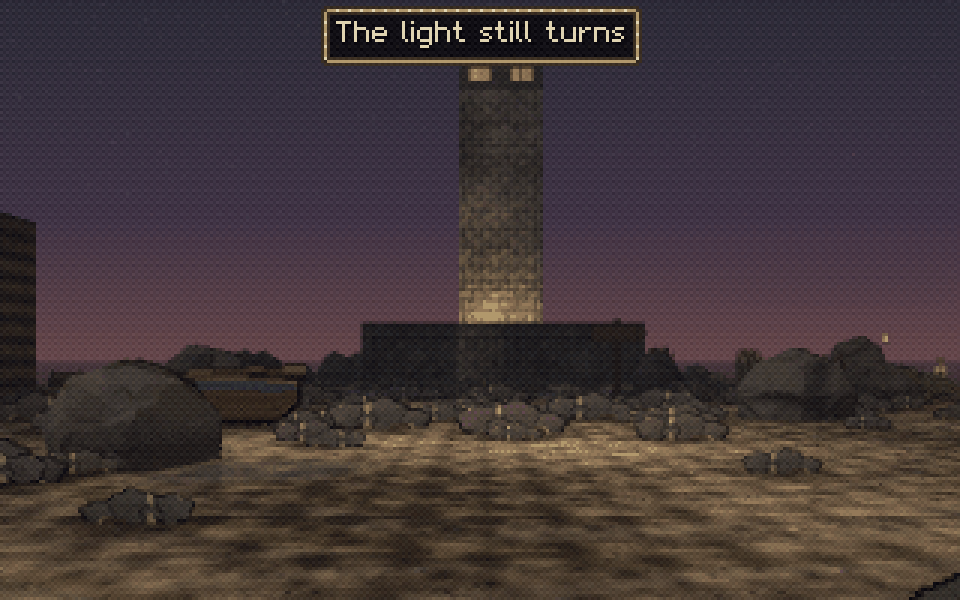
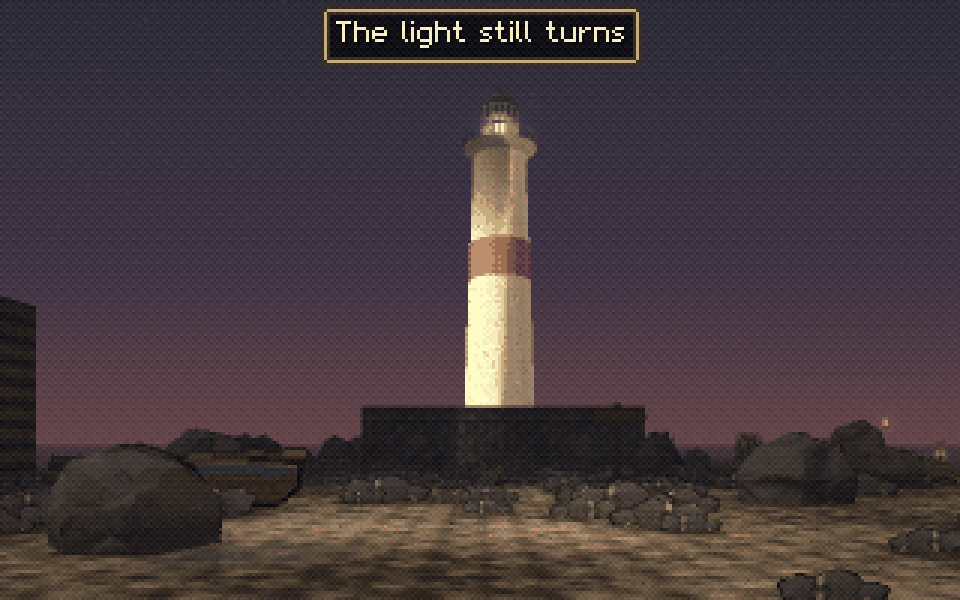
The lighthouse in 3D, its lamp lit at dusk
The coast's lighthouse was a square tower of wall cells nine high. It
is a lighthouse object now: a round tower of whitewashed masonry
tapering up, smoothly shaded, a red band, a gallery on corbels with an
iron rail, a lantern room of glass with the lamp lit in it, a domed
iron cap with a ball. Painted masonry joins the materials: lime_white
and lime_red. The tower shot tilts up a little to take in the lantern,
with a bloom on the lights.

diff --git a/scripts/objects.py b/scripts/objects.py
@@ -36,7 +36,8 @@ PLACEMENT_KEYS = {'type', 'x', 'y', 'z', 'angle', 'scale', 'paint', 'lights', 't
                   'rock', 'length', 'height', 'depth', 'pieces', 'trim', 'size', 'seed', 'plants', 'back', 'lining',
                   'count', 'spread', 'color', 'refract', 'glow', 'base', 'material', 'sides', 'radius', 'top', 'capital',
                   'sink', 'broken', 'width', 'flutes', 'doric', 'fill', 'rise', 'overhang', 'walls', 'inset',
-                  'cover', 'chimney', 'plaster', 'gauge', 'ore', 'roots', 'piece', 'side', 'heel', 'ends', 'sail'}
+                  'cover', 'chimney', 'plaster', 'gauge', 'ore', 'roots', 'piece', 'side', 'heel', 'ends', 'sail',
+                  'band', 'lit'}
 
 
 # ------------------------------------------------------------------ parts
@@ -1228,6 +1229,10 @@ IRONS = {
                        key=(-0.4, 0.45, 0.8), shade=(0.42, 0.5)),
     'iron_green': dict(ramps=[ramp('#3a5a48', dark=0.4, light=1.5), ramp('#7a4a32', dark=0.4, light=1.3)],
                        key=(-0.4, 0.45, 0.8), shade=(0.38, 0.55)),
+    'lime_white': dict(ramps=[ramp('#e6e2d6', dark=0.42, light=1.1), ramp('#a8a08a', dark=0.4, light=1.2)],
+                       key=(-0.4, 0.45, 0.8), shade=(0.4, 0.52), rust=0.8),
+    'lime_red': dict(ramps=[ramp('#a8382c', dark=0.38, light=1.3), ramp('#8a6a5a', dark=0.4, light=1.2)],
+                     key=(-0.4, 0.45, 0.8), shade=(0.38, 0.55), rust=0.84),
 }
 
 
@@ -1977,6 +1982,61 @@ def longship(pl):
     return parts
 
 
+def lighthouse(pl):
+    """A lighthouse: a round tower of whitewashed masonry `height` tall (default 8) and `radius` at its foot
+    (default 0.9), tapering to 0.7 of that, a red `band` round it (`false` for none) - smoothly shaded round
+    - a gallery round its head with an iron rail, a lantern room of glass with the lamp in it (`lit`, by
+    default true: it glows and lights the night round it) and a domed iron cap with a ball on top."""
+    seed = int(pl.get('seed', 1))
+    H, R = float(pl.get('height', 8.0)), float(pl.get('radius', 0.9))
+    white = _material(dict(pl, material='lime_white'))
+    red = _material(dict(pl, material='lime_red'))
+    iron = _material(dict(pl, material='iron_green'))
+    n = 18
+    smooth = -math.tan(math.pi / n)
+    rad = lambda z: R * (1 - 0.3 * z / H)                             # noqa: E731
+    cuts = [0.0, H * 0.58, H * 0.7, H] if pl.get('band', True) else [0.0, H]
+    parts = []
+    for k, (z0, z1) in enumerate(zip(cuts, cuts[1:])):                 # the tower, white and a red band
+        mat = red if (len(cuts) > 2 and k == 1) else white
+        parts += _prism_faces(mat, seed + k, n, rad(z0), rad(z1), z0 - (0.02 if k == 0 else 0.0), z1, 0.0,
+                              flute=smooth, block=True)
+    rg = rad(H) + 0.28                                                 # the gallery: a deck on corbels, a rail
+    parts += _prism_faces(white, seed + 10, n, rad(H) - 0.02, rg, H - 0.24, H, 0.0, flute=smooth, block=True)
+    parts.append(_disc(iron, seed + 11, n, rg, H, 0.0))
+    parts += _prism_faces(iron, seed + 12, n, rg - 0.01, rg - 0.01, H + 0.26, H + 0.32, 0.0, block=True)
+    for k in range(n):                                                 # the rail's posts
+        a = 2 * math.pi * k / n
+        x, y = (rg - 0.02) * math.cos(a), (rg - 0.02) * math.sin(a)
+        parts += box((x - 0.015, y - 0.015, H), (x + 0.015, y + 0.015, H + 0.3),
+                     {f: _solid_cached(2, 18, '#2e4236') for f in ('front', 'back', 'right', 'left')})
+    rl, zl, hl = rad(H) * 0.72, H, 1.0                                 # the lantern room
+    glass = dict(ROOFS['glass'], bars=(rl * 2 * math.sin(math.pi / 10) / 2, 0.34), opacity=0.12)
+    for k in range(10):
+        a0, a1 = 2 * math.pi * k / 10, 2 * math.pi * (k + 1) / 10
+        A = np.array([rl * math.cos(a0), rl * math.sin(a0), zl + hl])
+        B = np.array([rl * math.cos(a1), rl * math.sin(a1), zl + hl])
+        if np.cross(B - A, np.array([0.0, 0.0, -1.0])) @ (A + B) < 0:
+            A, B = B, A
+        p = _rock(glass, seed + 20 + k, A, B, A - np.array([0.0, 0.0, hl]))
+        if p:
+            p['translucent'] = True
+            parts.append(p)
+    parts += _prism_faces(iron, seed + 30, 10, rl, rl * 1.05, zl + hl, zl + hl + 0.08, 0.0, block=True)
+    dome = [(1.05, 0.0), (0.98, 0.18), (0.78, 0.4), (0.45, 0.58), (0.14, 0.66), (0.0, 0.68)]
+    for k, ((r0, z0), (r1, z1)) in enumerate(zip(dome, dome[1:])):     # the dome, and the ball on it
+        parts += _prism_faces(iron, seed + 40 + k, 12, max(rl * r0, 1e-3), max(rl * r1, 1e-3), zl + hl + 0.08 + z0 * rl,
+                              zl + hl + 0.08 + z1 * rl, 0.0, flute=-math.tan(math.pi / 12), block=True)
+    zb = zl + hl + 0.08 + 0.68 * rl
+    parts += _prism_faces(iron, seed + 50, 8, 0.06, 0.06, zb, zb + 0.12, 0.0, block=True)
+    parts.append(_disc(iron, seed + 51, 8, 0.06, zb + 0.12, 0.0))
+    if pl.get('lit', True):                                            # the lamp in the lantern room
+        parts.append(sprite('orb', 0.0, 0.0, zl + 0.05, scale=hl * 0.9, shadow=False))
+        parts.append(light(0.0, 0.0, zl + 0.5, 9.0, (1.0, 0.86, 0.6), 1.6))
+    parts.append(shadow(0.0, 0.0, 2.6 * R, 0.5))
+    return [p for p in parts if p]
+
+
 # ------------------------------------------------------------------ chess pieces
 
 def _polished(rk, seed, o, u, v, w, h, alpha, rim=None, tone=0.0, tilt=None):
@@ -2233,4 +2293,4 @@ OBJECTS = {'noodle_stand': noodle_stand, 'car': car, 'rock_wall': rock_wall, 'bo
            'beam': beam, 'crystal_cluster': crystal_cluster, 'trough': trough, 'shed_roof': shed_roof,
            'gable_roof': gable_roof, 'market_stand': market_stand, 'saloon_bar': saloon_bar, 'rails': rails,
            'ore_cart': ore_cart, 'keel': keel, 'chess_piece': chess_piece, 'ship_hull': ship_hull,
-           'longship': longship}
+           'longship': longship, 'lighthouse': lighthouse}

diff --git a/references/scene_format.md b/references/scene_format.md
@@ -678,7 +678,7 @@ An object is a thing too big to be a billboard - a car, a food stand, rock, crys
 | `refract` | how far a crystal's facets bend the light through them, in units (default 0.16; 0 for plain glass) |
 | `glow` | how much crystals glow (default 0.6) |
 | `base` | a crystal cluster: `false` leaves out its bed of rock. A column: the height of a wider plinth under it |
-| `material` | a column or a beam: a kind of rock (`stone`, `sandstone`, `snow`, `cave`, ... - cut from solid stone as rock is), `ashlar` (pale dressed stone laid in courses - a column in drums), `iron_white` and `iron_green` (painted cast iron, for a glasshouse), `marble` (cream-white, in drums, a golden patina in patches) or `wood` (weathered timber, its grain running along it, dark and grown over where it stands in water) |
+| `material` | a column or a beam: a kind of rock (`stone`, `sandstone`, `snow`, `cave`, ... - cut from solid stone as rock is), `ashlar` (pale dressed stone laid in courses - a column in drums), `iron_white` and `iron_green` (painted cast iron, for a glasshouse), `lime_white` and `lime_red` (whitewashed and red-painted masonry, smoothly round), `marble` (cream-white, in drums, a golden patina in patches) or `wood` (weathered timber, its grain running along it, dark and grown over where it stands in water) |
 | `sides` | a column's faces (default 8, an octagon) |
 | `radius` | a column's radius at its foot, across the corners (default 0.12) |
 | `top` | a column's radius at its head, as a share of its foot's (default 1: no taper) |
@@ -703,12 +703,14 @@ An object is a thing too big to be a billboard - a car, a food stand, rock, crys
 | `side` | a chess piece: `white` (the default) or `black` |
 | `heel` | a ship's hull or a longship: how far it lists toward its starboard side, in degrees |
 | `sail` | a longship: `false` furls its sail (the mast and yard stay) |
+| `band` | a lighthouse: `false` leaves its tower all white |
+| `lit` | a lighthouse: `false` puts its lamp out |
 | `ore` | an ore cart: `false` leaves it empty |
 | `seed` | another arrangement of the same rock |
 | `plants` | a rock wall: `false` leaves its tops bare. A boulder: how many plants grow on top (default 0) |
 | `back` | a rock wall: `true` closes the back of each piece, for rock standing free of a wall |
 
-Built-in objects: `car` (a saloon 1.6 long, 0.6 wide and 0.47 tall - eye height is 0.5: its body a box whose sides are the car's outline, the hood and trunk lid flat across it, the roof, a windscreen, rear and side windows of glass with the seats, dashboard and steering wheel seen through them, four wheels set in under the body in dark wells, a floor pan and a soft shadow under it), `noodle_stand` (a street-food stand 1.4 wide and about 1.2 tall: a counter of lacquered boards under a sloping striped awning on four posts, a scalloped valance, split indigo curtains hanging from its front, a lit sign on the roof, red lanterns with their own light; bowls of noodles, a condiment tray, a stock pot with steam, bowls and bottles on its counter and stools before it, as billboards; it faces its customers. Put a `shopkeeper` behind its counter for a cook), `rock_wall` (rockwork along the foot of a wall: set it on the wall's foot facing into the room, `length` along it. Pieces side by side and overlapping, each in plan a rounded mass of a few broad faces jutting from the wall (now and then a spike or a notch), each piece its own height, with a trim of faces along its top cut by one long smooth wavy edge so no top is level, a flat top on each and plants growing along its rim), `boulder` (a low-poly mass of rock, every face a triangle: an irregular polygon at its foot, bulging a little, drawing in to its shoulders and up to a peak off its centre - solid and closed from every side, so it can be looked down on; the `boulder` prop in `sprites` is a flat billboard of one, fine in the distance), `column` (a column or a post: a prism of `sides` faces, tapering if `top` is under 1, with a plinth and a capital if asked, in stone or wood - pier piles, porch posts, the pillars of a nave; the `column` prop in `sprites` is a billboard of a fluted classical one), `beam` (a squared timber or a stone lintel lying level, its underside at the placement's `z`: a wall plate along a row of piers, a lintel over a door, a fallen timber on the floor), `trough` (a horse trough: an open box of weathered boards 1.6 long, 0.5 wide and 0.45 tall - `length`, `width`, `height` - still water in it a hand below the rim), `shed_roof` (a roof of boards sloping down to its front edge at the placement's `z`, `length` along it and reaching `depth` out the way it faces, its back edge `rise` higher - over a porch, a lean-to, an awning), `gable_roof` (a gabled roof of boards - or `thatch` or `tile` - its ridge `length` long the way it faces and `rise` over the eaves at `z`, `width` across, gable ends of upright boards, and with `walls` the walls under it: a shed, a barn, a cottage, the body of a building), `longship` (a longship: a long open hull of boards, its stem and stern curling up high, a mast with a yard and a square sail in red and cream stripes - `"sail": false` furls it - and round shields along both sides at the gunwale; `length` long the way it faces, default 7; `heel` lists it), `ship_hull` (a wooden ship's hull, open: `length` long the way it faces (the bow), `width` across, `depth` from keel to gunwale - a square stern, the sides curving out from the keel and in to a pointed bow whose stem sweeps up, planked along its length, ribs inside; `heel` lists it toward its starboard side in degrees, `broken` (0-1) staves in that much of that side; sink it into a sea floor with a negative `z`), `chess_piece` (a chess piece in 3D, turned in polished marble: `piece` a `pawn`, `rook`, `bishop`, `knight`, `queen` or `king`, `side` `white` or `black`, `height` tall (default 1) - smoothly shaded round, a sheen where it faces the light, veins in the stone; the rook's battlements, the queen's coronet and ball, the king's crown and cross, the knight's head carved side on and cut thick, facing the way the piece faces), `keel` (the rock under a floating island: an irregular ring `size` across at its top - set `z` at the foot of the island's `cliff` - drawing in by uneven steps to a ragged point `depth` below, crags hanging from its flanks, every face a triangle of rock lit from above, so its underside is in shade; `rock` defaults to `island`, grey and brown in beds; `"roots": false` leaves out the roots trailing from it), `rails` (a narrow track: two iron rails `length` long the way it faces, `gauge` apart (default 0.24), on wooden sleepers, their tops worn bright), `ore_cart` (a riveted iron tub on four small wheels set to the rails, its length the way it faces, ore heaped in it - `"ore": false` for none), `saloon_bar` (a saloon's counter of dark mahogany `length` long (default 3), 0.38 tall: raised panels between pilasters, a polished top, the bartender's shelves behind, a brass foot rail on brackets, bottles on it; it faces the drinkers), `market_stand` (a trestle table of boards 1.5 long with a striped skirt, under a striped awning on four poles sloping down to the front, a scalloped valance round it; apples, cabbages and loaves heaped on the table and crates by it, as billboards; it faces its customers), `crystal_cluster` (hexagonal crystals with pointed tips growing from a bed of rock, the tallest near upright and the rest leaning out; each carries a light of its colour. Every facet is its own panel with its own clarity - clear across the middle, milky toward the base, bright along the edges - and bends the light through it its own way: it shows one coherent piece of what is behind it, shifted by the way the facet is turned, its neighbours other pieces, the colours parting a little at the edges - so a crystal reads as cut stone from any side, and a crystal behind it shows through it bent).
+Built-in objects: `car` (a saloon 1.6 long, 0.6 wide and 0.47 tall - eye height is 0.5: its body a box whose sides are the car's outline, the hood and trunk lid flat across it, the roof, a windscreen, rear and side windows of glass with the seats, dashboard and steering wheel seen through them, four wheels set in under the body in dark wells, a floor pan and a soft shadow under it), `noodle_stand` (a street-food stand 1.4 wide and about 1.2 tall: a counter of lacquered boards under a sloping striped awning on four posts, a scalloped valance, split indigo curtains hanging from its front, a lit sign on the roof, red lanterns with their own light; bowls of noodles, a condiment tray, a stock pot with steam, bowls and bottles on its counter and stools before it, as billboards; it faces its customers. Put a `shopkeeper` behind its counter for a cook), `rock_wall` (rockwork along the foot of a wall: set it on the wall's foot facing into the room, `length` along it. Pieces side by side and overlapping, each in plan a rounded mass of a few broad faces jutting from the wall (now and then a spike or a notch), each piece its own height, with a trim of faces along its top cut by one long smooth wavy edge so no top is level, a flat top on each and plants growing along its rim), `boulder` (a low-poly mass of rock, every face a triangle: an irregular polygon at its foot, bulging a little, drawing in to its shoulders and up to a peak off its centre - solid and closed from every side, so it can be looked down on; the `boulder` prop in `sprites` is a flat billboard of one, fine in the distance), `column` (a column or a post: a prism of `sides` faces, tapering if `top` is under 1, with a plinth and a capital if asked, in stone or wood - pier piles, porch posts, the pillars of a nave; the `column` prop in `sprites` is a billboard of a fluted classical one), `beam` (a squared timber or a stone lintel lying level, its underside at the placement's `z`: a wall plate along a row of piers, a lintel over a door, a fallen timber on the floor), `trough` (a horse trough: an open box of weathered boards 1.6 long, 0.5 wide and 0.45 tall - `length`, `width`, `height` - still water in it a hand below the rim), `shed_roof` (a roof of boards sloping down to its front edge at the placement's `z`, `length` along it and reaching `depth` out the way it faces, its back edge `rise` higher - over a porch, a lean-to, an awning), `gable_roof` (a gabled roof of boards - or `thatch` or `tile` - its ridge `length` long the way it faces and `rise` over the eaves at `z`, `width` across, gable ends of upright boards, and with `walls` the walls under it: a shed, a barn, a cottage, the body of a building), `lighthouse` (a round tower of whitewashed masonry `height` tall (default 8), `radius` at its foot (default 0.9), tapering to 0.7 of that, a red `band` round it (`false` for none), a gallery with an iron rail round its head, a lantern room of glass with the lamp lit in it - `"lit": false` puts it out - and a domed iron cap), `longship` (a longship: a long open hull of boards, its stem and stern curling up high, a mast with a yard and a square sail in red and cream stripes - `"sail": false` furls it - and round shields along both sides at the gunwale; `length` long the way it faces, default 7; `heel` lists it), `ship_hull` (a wooden ship's hull, open: `length` long the way it faces (the bow), `width` across, `depth` from keel to gunwale - a square stern, the sides curving out from the keel and in to a pointed bow whose stem sweeps up, planked along its length, ribs inside; `heel` lists it toward its starboard side in degrees, `broken` (0-1) staves in that much of that side; sink it into a sea floor with a negative `z`), `chess_piece` (a chess piece in 3D, turned in polished marble: `piece` a `pawn`, `rook`, `bishop`, `knight`, `queen` or `king`, `side` `white` or `black`, `height` tall (default 1) - smoothly shaded round, a sheen where it faces the light, veins in the stone; the rook's battlements, the queen's coronet and ball, the king's crown and cross, the knight's head carved side on and cut thick, facing the way the piece faces), `keel` (the rock under a floating island: an irregular ring `size` across at its top - set `z` at the foot of the island's `cliff` - drawing in by uneven steps to a ragged point `depth` below, crags hanging from its flanks, every face a triangle of rock lit from above, so its underside is in shade; `rock` defaults to `island`, grey and brown in beds; `"roots": false` leaves out the roots trailing from it), `rails` (a narrow track: two iron rails `length` long the way it faces, `gauge` apart (default 0.24), on wooden sleepers, their tops worn bright), `ore_cart` (a riveted iron tub on four small wheels set to the rails, its length the way it faces, ore heaped in it - `"ore": false` for none), `saloon_bar` (a saloon's counter of dark mahogany `length` long (default 3), 0.38 tall: raised panels between pilasters, a polished top, the bartender's shelves behind, a brass foot rail on brackets, bottles on it; it faces the drinkers), `market_stand` (a trestle table of boards 1.5 long with a striped skirt, under a striped awning on four poles sloping down to the front, a scalloped valance round it; apples, cabbages and loaves heaped on the table and crates by it, as billboards; it faces its customers), `crystal_cluster` (hexagonal crystals with pointed tips growing from a bed of rock, the tallest near upright and the rest leaning out; each carries a light of its colour. Every facet is its own panel with its own clarity - clear across the middle, milky toward the base, bright along the edges - and bends the light through it its own way: it shows one coherent piece of what is behind it, shifted by the way the facet is turned, its neighbours other pieces, the colours parting a little at the edges - so a crystal reads as cut stone from any side, and a crystal behind it shows through it bent).
 
 - Shoot an object at an angle: its depth is the point of it. Objects light, occlude and mirror in wet floors like everything else; their billboards get contact shadows and their lights join the scene's. They do not cast shadows from the scene's lights.
 - They render fast - a car is about seventy panels, each touching only its own patch of the screen.

diff --git a/docs/ASSETS.md b/docs/ASSETS.md
@@ -32,7 +32,7 @@ The smoke test fails while this file is out of date. Sheets show textures tiled 
 | Fringe sets | 7 | 7 | 0 | 0 | 0 |
 | Facade styles | 6 | 6 | 0 | 0 | 0 |
 | Prefabs | 13 | 13 | 0 | 0 | 0 |
-| Objects | 18 | 18 | 0 | 0 | 0 |
+| Objects | 19 | 19 | 0 | 0 | 0 |
 | Held items | 8 | 8 | 0 | 0 | 0 |
 | Icons | 26 | 26 | 0 | 0 | 0 |
 | GUI themes | 6 | 6 | 0 | 0 | 0 |
@@ -40,7 +40,7 @@ The smoke test fails while this file is out of date. Sheets show textures tiled 
 | Post presets | 20 | 20 | 0 | 0 | 0 |
 | Palettes | 9 | 9 | 0 | 0 | 0 |
 | Example scenes | 65 | 65 | 0 | 0 | 0 |
-| **all** | **802** | **802** | **0** | **0** | **0** |
+| **all** | **803** | **803** | **0** | **0** | **0** |
 <!-- /summary -->
 
 ## Pass plan
@@ -82,7 +82,7 @@ New scenes:
 | `brick_yellow` | good |  | - |  |
 | `stone` | good |  | claude_study, garden_encounter, gui_menus, hospital_garden, post_presets | Even block sizes; a few varied heights would help on long walls. |
 | `stone_dark` | good |  | cathedral_ruin, garden_encounter, gui_menus, gui_themes, gui_trade, haunted_house, hospital_garden, library_medium, mansion_library, post_presets, rainy_street |  |
-| `stone_pale` | good |  | cathedral_ruin, chapel_graveyard, coast_lighthouse, dream_world, garden_encounter, gui_menus, hospital_garden, post_presets |  |
+| `stone_pale` | good |  | cathedral_ruin, chapel_graveyard, dream_world, garden_encounter, gui_menus, hospital_garden, post_presets |  |
 | `castle` | good |  | castle_keep | Mortar grid is very regular; chip a few corners. |
 | `moss_stone` | good |  | autumn_lane, coast_lighthouse, misty_moor |  |
 | `menhir` | good |  | misty_moor | Drawn with the toolkit in basics.py: one weathered stone face - broad swells, rain runnels, long cracks, lichen rosettes - moss at its foot. |
@@ -249,7 +249,7 @@ New scenes:
 
 | texture | status | traits | used in | notes |
 |---|---|---|---|---|
-| `window_lit` | good | glows | coast_lighthouse, garden_encounter, gui_menus, haunted_house, hospital_garden, neon_rooftop, post_presets, rainy_street | Simple; a silhouette in one pane now and then would add life. |
+| `window_lit` | good | glows | garden_encounter, gui_menus, haunted_house, hospital_garden, neon_rooftop, post_presets, rainy_street | Simple; a silhouette in one pane now and then would add life. |
 | `window_dark` | good |  | garden_encounter, gui_menus, gui_themes, gui_trade, haunted_house, hospital_garden, library_medium, mansion_library, neon_rooftop, post_presets, rainy_street |  |
 | `window_lit_plaster` | good | glows | bayou, garden_encounter, gui_menus, hospital_garden, post_presets, rainy_street, winter_lake |  |
 | `window_dark_plaster` | good |  | garden_encounter, ghost_corridor, gui_hud, gui_menus, hospital_corridor, hospital_garden, post_presets, rainy_street |  |
@@ -583,7 +583,7 @@ Camera-facing sprites. "tall" is the default height in world units (a wall is 1)
 | `door_frame` | good | 1.1 tall | dream_chess, dream_world, hall_of_doors, salt_flat |  |
 | `floating_rock` | good | 1.6 tall, no shadow | dream_world, sky_islands |  |
 | `koi` | good | 0.35 tall, no shadow | dream_chess, dream_world, drowned_library, hall_of_doors |  |
-| `orb` | good | 0.2 tall, glows, aura, no shadow | dream_world |  |
+| `orb` | good | 0.2 tall, glows, aura, no shadow | coast_lighthouse, dream_world |  |
 | `pocket_watch` | good | 0.8 tall, no shadow | dream_world |  |
 | `sky_whale` | good | 2 tall, glows, no shadow | dream_world, drowned_library, salt_flat |  |
 
@@ -906,7 +906,7 @@ Named groups placed with one line (`scripts/prefabs.py`).
 | `graves` | good | 5 sprites | - |  |
 | `shrine` | good | 2 sprites, 1 lights | jungle_temple |  |
 
-## Objects (18)
+## Objects (19)
 
 Things too big for a billboard, built in 3D out of flat panels (`scripts/objects.py`).
 
@@ -935,6 +935,7 @@ Things too big for a billboard, built in 3D out of flat panels (`scripts/objects
 | `chess_piece` | good | dream_chess, dream_world | A chess piece in 3D, turned (`_lathe`: each pair of profile points a frustum of 16 faces, smoothly shaded round with a convex `tilt`) in polished marble (`_polished`: lit by the way each texel faces, a sheen toward the light, veins), white or black; the rook's battlements, the queen's coronet and ball, the king's crown and cross; the knight's head carved side on from a slab, its eyes nicked in. Replaces the billboards in dream_chess. |
 | `ship_hull` | good | kelp_forest | A wooden ship's hull in 3D, open: a square stern, the sides curving out from the keel and in to a pointed bow whose stem sweeps up, the gunwale rising toward both ends; planked along its length (`_timber` boards), ribs inside; `heel` lists it, `broken` staves in its starboard side. The kelp forest's wreck. |
 | `longship` | good | fjord | A longship: the `ship_hull`'s planked hull, stem and stern posts curling up and over, a six-sided mast, a yard and a square sail in red and cream stripes (bellied lighter in the middle; `"sail": false` furls it), round shields at the gunwale down both sides. |
+| `lighthouse` | good | coast_lighthouse | A round tower of whitewashed masonry tapering up, smoothly shaded (`lime_white`, `_painted`), a red band (`lime_red`), a gallery on corbels with an iron rail of posts, a lantern room of ten glass panes (the `glass` cover's painter, translucent) with the lamp lit in it (an `orb` and a light), a domed iron cap with a ball. |
 
 ## Held items (8)
 
@@ -1082,7 +1083,7 @@ The environments, judged on their gallery images and shots.
 | `bayou` | good | 4 | bayou_dusk, bayou_night, bayou_gator, bayou_heron | A shack on an island in black water between mossy cypresses: sundown, fireflies at night, an alligator, a heron in mist. |
 | `kelp_forest` | good | 4 | sea_kelp, sea_diver, sea_shoal, sea_night | A kelp forest in teal water: a wreck with its mast, a diver with bubbles rising, a shoal; a night dive by flashlight with jellyfish. The wreck is a `ship_hull` in 3D now, listing toward the cameras with its side stove in and the ribs showing, and the rock outcrops are `boulder`s of live `reef` rock. |
 | `aquarium` | good | 8 | aquarium_hall, aquarium_manta, aquarium_tunnel, aquarium_jellies, aquarium_reef, aquarium_moon, aquarium_diver, aquarium_rockwork | A dark hall before the great window (whale shark, manta, a diver cleaning the glass, silhouettes, the floor mirroring it); the manta from below; the tunnel; sea nettles against blue; the reef tank; inside the ocean tank by a boulder. The big tanks' backs are rockwork against open water. |
-| `coast_lighthouse` | good | 4 | coast_tower, coast_jetty | The shore rocks are the redrawn boulders now, not grey lumps; sand and water redrawn too. |
+| `coast_lighthouse` | good | 4 | coast_tower, coast_jetty | The shore rocks are the redrawn boulders now, not grey lumps; sand and water redrawn too. The lighthouse itself is 3D now (a `lighthouse` object), its lamp lit at dusk. |
 | `rainy_street` | good | 4 | street_rain, street_lightning |  |
 | `rain_alley` | good | 5 | alley_street, alley_rain, alley_glass, alley_storm, alley_cars |  |
 | `neon_street` | good | 5 | neon_street, neon_stall, neon_signs, neon_runner, neon_counter | The neon facade style in the rain: signs, blade signs, lantern wires, a hologram koi, a noodle stall, vending machines, steam, the runner; bloom on the neon. |
@@ -1165,6 +1166,7 @@ The environments, judged on their gallery images and shots.
 ## Pass log
 
 - **2026-10-19, pass 0.** First full review of every asset, on review sheets and in the gallery. This file and `docs/asset_review.py` were added.
+- **2026-10-21, the lighthouse.** The coast's lighthouse was a square tower of wall cells nine high. It is a `lighthouse` object now (new): a round whitewashed tower tapering up, a red band, a gallery with its rail, a lantern room of glass with the lamp lit in it, a domed cap; painted masonry `lime_white` and `lime_red`. The tower shot tilts up a little (`pitch` 0.24) to take in the lantern, with a bloom on the lights.
 - **2026-10-21, the palm house.** A new scene: a Victorian glasshouse. Its roof is a `gable_roof` with the new `glass` cover and `glass` ends - painted as panes between white glazing bars with each texel's own opacity and drawn as glass (`translucent`), so the sky shows through, and no cell is roofed, so the sun comes in; painted cast iron for columns and beams (`iron_white`, `iron_green`; `_painted`); a new kit, glasshouse.py, with the `glasshouse` wall and `encaustic` tiles. Palms scaled to 4-5 so their crowns fill the glass. The shot from the garden was dropped: walls of open panes read as a cage from outside.
 - **2026-10-21, the fjord.** A new scene, the north: a `longship` object (new - the hull with its stem and stern curling up, a mast, a yard and a striped square sail, round shields along both sides), `round_shield` (new, norse.py), cliffs lined with tall ragged `stone` rock walls, a longhouse under a thatch `gable_roof`. First drawn, the cliffs' trim was low and they read as castle walls (`trim` 0.14 now, for a ragged rim), the dusk shot looked at nothing and the third sat inside the ship - now dusk is the fire lighting the shields and the third looks back from the water. Pines on the cliff tops were tried and dropped: the rock walls stand taller than the cells they line, so they hid them.
 - **2026-10-21, the woods' edges.** The woodland, the autumn lane and the winter woods take the jungle's natural edge: their fringes `wander` (0.3, 1.2 deep), so the forest's flat wall faces stop showing between the layers at its corners - most in the winter woods, where the lane's straight green walls are now trees. The other shots change little.

diff --git a/SKILL.md b/SKILL.md
@@ -77,7 +77,7 @@ Stack effects or use presets in `"post"`: crt, crt_amber, crt_green, vhs, gamebo
 - **Interiors**: wall height = `ceiling_height`; lights near walls give textures gradients; break long corridors with doorways and spilled light.
 - **Composition**: one-point perspective down a corridor or path is the classic; 20-40 degrees off-axis adds variety; a close character on one side with the scene behind makes strong encounter shots.
 - **Prefabs place a group with one line**: `{"type": "campsite", "x": 12.5, "y": 20.5}` puts down a fire, logs, stones and its light; `beach_hut` brings its own walls, door, window, roof, torches and lights; `palm_grove`, `jungle_clump`, `fern_bed`, `ruined_columns`, `altar_fire`, `graves`, `street_lamp`, `tiki_torches`, `shrine`, `palm_3d`, `jungle_bush`. `angle` turns one, `seed` varies it. Define your own in `prefab_defs` when a scene repeats a group.
-- **Objects are big things built in 3D**: `{"type": "car", "x": 20.4, "y": 45.6, "angle": 270, "paint": "#9a9ea4"}` parks a saloon (`"lights": true` turns its headlamps on); `noodle_stand` is a street-food stand with its awning, curtains, sign, lanterns and bowls on the counter. Unlike a billboard they show the right sides from any angle - so shoot them at an angle - and a figure can stand in front of them or behind. A car is 1.6 long and 0.47 tall. Rock is an object too: a `rock_wall` lines the foot of a wall with overlapping rounded pieces of different heights, their tops cut along a wavy edge, plants on them - better than a flat rock texture wherever a cliff, a cave wall or a tank's rockwork is in view - and a `boulder` object is a solid low-poly rock (the `boulder` prop is a billboard of one); `"rock"` picks `stone`, `reef`, `sandstone`, `snow`, `cave` or `lumen` (glowing moss), and `"lining": "#"` lines every wall face of those map cells with rock. A `column` is a post or a pillar in 3D - wooden piles under a pier, stone pillars in a nave (`"material": "ashlar"` lays it in drums; `broken` snaps it off; `"flutes": 20, "doric": true` in `marble` makes a Greek one) - and a `beam` lies level across them. Timber work: a `trough`, a `shed_roof` (over a porch or a lean-to) and a `gable_roof` (with `walls`, a shed or a barn; `"cover": "thatch"` or `"tile"` and a `chimney` for a cottage); a `market_stand` for a market; a `saloon_bar` for a saloon; `rails` and an `ore_cart` for a mine; a `keel` of rock under a floating island; a `chess_piece` (`piece`, `side`) for a giant game; a `ship_hull` (`heel`, `broken`) for a wreck; a `longship` (`sail`) for the north; a `gable_roof` of `"cover": "glass"` over a glasshouse. An object backlit by a low sun takes `"fill": 1.0`. A `crystal_cluster` grows crystals whose every facet bends the light through it its own way, like cut stone - put glowing things behind them.
+- **Objects are big things built in 3D**: `{"type": "car", "x": 20.4, "y": 45.6, "angle": 270, "paint": "#9a9ea4"}` parks a saloon (`"lights": true` turns its headlamps on); `noodle_stand` is a street-food stand with its awning, curtains, sign, lanterns and bowls on the counter. Unlike a billboard they show the right sides from any angle - so shoot them at an angle - and a figure can stand in front of them or behind. A car is 1.6 long and 0.47 tall. Rock is an object too: a `rock_wall` lines the foot of a wall with overlapping rounded pieces of different heights, their tops cut along a wavy edge, plants on them - better than a flat rock texture wherever a cliff, a cave wall or a tank's rockwork is in view - and a `boulder` object is a solid low-poly rock (the `boulder` prop is a billboard of one); `"rock"` picks `stone`, `reef`, `sandstone`, `snow`, `cave` or `lumen` (glowing moss), and `"lining": "#"` lines every wall face of those map cells with rock. A `column` is a post or a pillar in 3D - wooden piles under a pier, stone pillars in a nave (`"material": "ashlar"` lays it in drums; `broken` snaps it off; `"flutes": 20, "doric": true` in `marble` makes a Greek one) - and a `beam` lies level across them. Timber work: a `trough`, a `shed_roof` (over a porch or a lean-to) and a `gable_roof` (with `walls`, a shed or a barn; `"cover": "thatch"` or `"tile"` and a `chimney` for a cottage); a `market_stand` for a market; a `saloon_bar` for a saloon; `rails` and an `ore_cart` for a mine; a `keel` of rock under a floating island; a `chess_piece` (`piece`, `side`) for a giant game; a `ship_hull` (`heel`, `broken`) for a wreck; a `longship` (`sail`) for the north; a `gable_roof` of `"cover": "glass"` over a glasshouse; a `lighthouse` on a coast. An object backlit by a low sun takes `"fill": 1.0`. A `crystal_cluster` grows crystals whose every facet bends the light through it its own way, like cut stone - put glowing things behind them.
 - **Plants have body**: ferns, grass tufts, bromeliads, banana plants, monstera and other low plants stand as crossed planes (`planes` 2 or 3) rather than billboards, so they look solid from any side; trees stay billboards. Set `"planes": 0` for a flat billboard, or `planes` on any sprite to stand it in the world.
 - **Scatter debris rather than placing it.** `scatter` fills a floor with weighted, size-varied clutter from one line (`{"of": "stones", "on": "s", "density": 1.5}`); sets are `stones`, `snow`, `rubble`, `forest`, `undergrowth`, `autumn`, `desert`, `swamp`, `seabed`, `shore`, `litter`, `wreckage`, `cave`, `alien`, `derelict`, `jungle`, `beach`, `ruins`. Density 0.3 is a dusting, 1.5+ is a stony beach. It avoids cameras and speaking characters by itself.
 - **Reach for `grime` when somewhere is neglected.** One 0-1 number raises surface variation, debris density and wall/floor wear together, which is usually what "this place is filthy" means.

diff --git a/README.md b/README.md
@@ -315,7 +315,7 @@ A lighthouse on its point at dusk, the sea running in under it, and the keeper o
 
 | | |
 |---|---|
-| ![The lighthouse at dusk](docs/gallery/coast_tower.png) | ![The keeper on the jetty](docs/gallery/coast_jetty.png) |
+| ![The lighthouse at dusk, its lamp lit, a red band round the white tower](docs/gallery/coast_tower.png) | ![The keeper on the jetty](docs/gallery/coast_jetty.png) |
 
 ## Underground and undersea
 
@@ -547,7 +547,7 @@ Streaks draw the brightest lights out into the little cross of a star filter, or
 - **Layered forest edges**: give the walls of a jungle or a wood a `fringe` and every face that looks onto open ground gets long cards of plants standing in front of it, sparse bushes at the front to a dense wall of trunks and crowns at the back, so the edge of the forest has real depth; with `wander` the layers follow a natural, rounded line instead of the grid's square corners
 - **City streets with depth**: give a block of buildings a `facade` and its fronts become separate buildings - different heights, brick, paint and windows - each drawn in layers: the wall, then frames and glass set back in it, curtains and blinds behind, and lit or dark rooms behind those, so the windows have real depth as the camera moves; the wall has its thickness, so from an angle every window and door shows its brick sides, lintel and sill
 - **Glass**: a pass of its own after everything else, showing what is behind each pane tinted and softly blurred - the frame shrunk to half size and blown back up without smoothing - under a faint reflection
-- **Objects**: things bigger than a prop - a `car`, a `noodle_stand`, a `rock_wall` of overlapping rounded pieces along a wall's foot, a `boulder`, a `column` of stone or wood and a `beam` to lay across them, a `trough`, a `shed_roof` and a `gable_roof` of weathered boards (or thatch, or clay tiles, with a chimney), a `market_stand`, a `saloon_bar`, `rails` and an `ore_cart`, a `keel` of rock to hang under a floating island, a `chess_piece` turned in polished marble, a wrecked `ship_hull`, a `longship` under sail, a roof of `glass` between iron glazing bars, a `crystal_cluster` whose every facet bends the light through it - built in 3D out of flat panels at any angle, see-through wherever the thing is not, with glass to see inside and billboards among them for the small things; drawn in true perspective, depth-tested per pixel and lit like walls; rock is cut from one solid block of stone, so it runs on round a corner (`scripts/objects.py`)
+- **Objects**: things bigger than a prop - a `car`, a `noodle_stand`, a `rock_wall` of overlapping rounded pieces along a wall's foot, a `boulder`, a `column` of stone or wood and a `beam` to lay across them, a `trough`, a `shed_roof` and a `gable_roof` of weathered boards (or thatch, or clay tiles, with a chimney), a `market_stand`, a `saloon_bar`, `rails` and an `ore_cart`, a `keel` of rock to hang under a floating island, a `chess_piece` turned in polished marble, a wrecked `ship_hull`, a `longship` under sail, a `lighthouse` with its lamp lit, a roof of `glass` between iron glazing bars, a `crystal_cluster` whose every facet bends the light through it - built in 3D out of flat panels at any angle, see-through wherever the thing is not, with glass to see inside and billboards among them for the small things; drawn in true perspective, depth-tested per pixel and lit like walls; rock is cut from one solid block of stone, so it runs on round a corner (`scripts/objects.py`)
 - **Wireframes**: low-poly meshes - cubes, pyramids, polyhedra, mountains, racers, palms, or your own vertices - drawn as lines of light in true 3D, one pixel wide at any distance, hidden behind what is nearer and mirrored in wet floors; solid ones are black faces edged in light
 - **Prefabs**: named groups placed with one line - a campsite with its light, a palm grove, a beach hut with its walls, door, window, roof and torches - turned, scaled and varied by seed; scenes can define their own
 - **Procedural scatter**: declare debris by set, density and size class and the loader expands it into hundreds of placed props, clumped by a noise field so it drifts and leaves bare patches instead of spreading evenly - and never piles up on a camera or in front of a speaker
